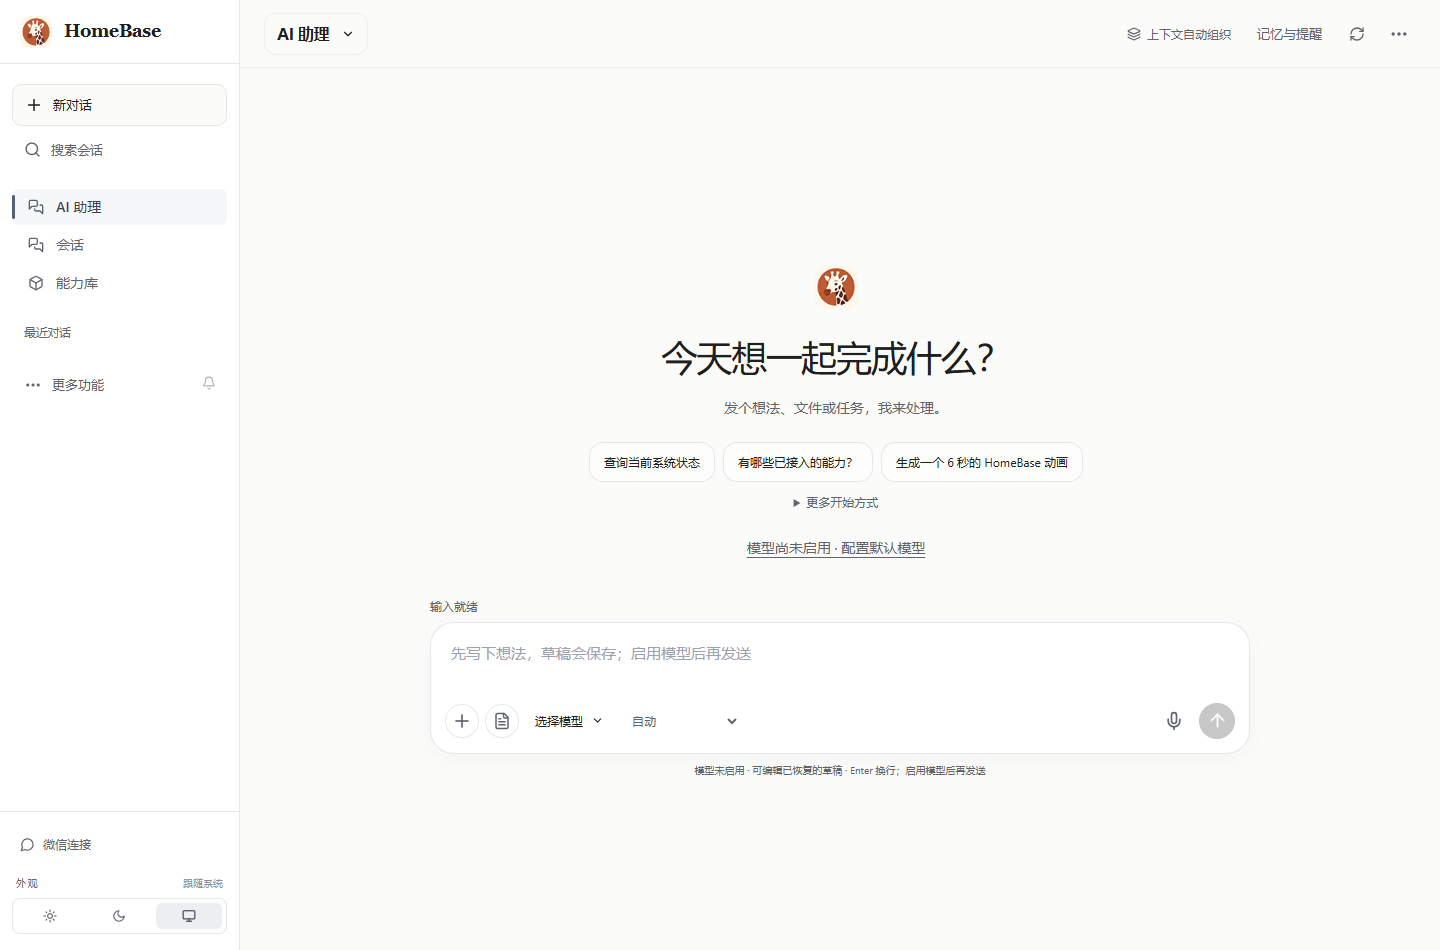
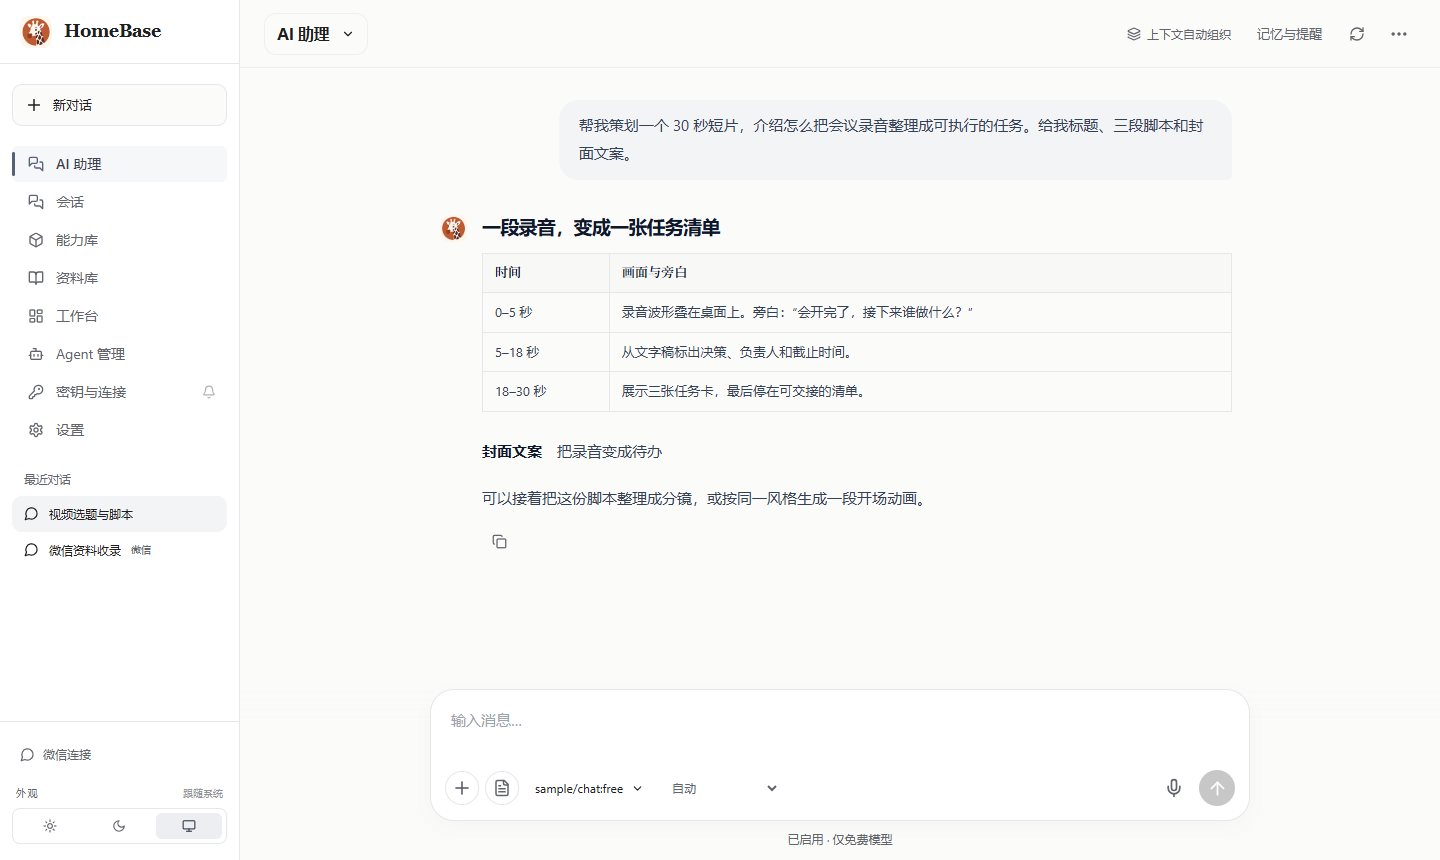
Refresh bilingual HomeBase repository homepage

diff --git a/README.md b/README.md
@@ -1,40 +1,63 @@
-# HomeBase
+<p align="center">
+  <img src="docs/brand/homebase-mark.png" width="104" height="104" alt="HomeBase 标识">
+</p>
 
-**Windows 上的本地 AI 助理和能力工作台。**
+<h1 align="center">HomeBase</h1>
 
-在桌面或微信里用自然语言交办任务，HomeBase 会按用途查找可用的模型、MCP、Skill 或本机能力。任务受理后可以查原进度、恢复中断的流程并取回产物。
+<p align="center"><strong>本地 AI 助理与能力工作台</strong></p>
 
-## 界面预览
+<p align="center">
+  简体中文 · <a href="README.en.md">English</a>
+</p>
 
-![HomeBase AI 助理首页](docs/screenshots/assistant.png)
+<p align="center">
+  <a href="#快速开始">快速开始</a> ·
+  <a href="#功能">功能</a> ·
+  <a href="docs/index.md">文档</a> ·
+  <a href="CONTRIBUTING.md">参与贡献</a>
+</p>
 
-以上为合成数据界面。 [查看能力库截图](docs/screenshots/capabilities.png)
+HomeBase 把聊天、任务和本机工具放进同一个 Windows 工作台。你可以在桌面或微信交办任务，让 Pi 助理选择合适的能力，再查看执行进度、继续处理或取回文件。模型服务、MCP、Skill 和已接入的开源项目集中在「能力库」，按要做的事查找。
 
-## 主要能力
+![HomeBase 桌面助理](docs/screenshots/assistant.png)
 
-| 模块 | 可以做什么 |
+## 功能
+
+| 功能 | 使用方式 |
 | --- | --- |
-| Pi 助理 | 连续对话、上下文摘要、个人记忆、提醒和任务恢复 |
-| 微信接入 | 本人扫码绑定，聊天、交办、查询进度与接收结果 |
-| 能力库 | 按功能查看本机工具、模型服务、MCP、Skill 和已注册的仓库能力 |
-| 会话与工作台 | 查看来自桌面、微信和已接入原生 Agent 的会话与运行状态 |
-| 本机 CLI | 让其他 AI 通过命令契约发现能力、校验输入、查询原任务及结果 |
+| **Pi 助理** | 在一个对话里提问、添加资料、执行任务。助理可使用长期记忆、提醒和上下文摘要。 |
+| **微信连接** | 扫码绑定后，在微信对话中交办任务、查询进度、接收文件。 |
+| **能力库** | 按功能比较模型服务、本机工具、MCP、Skill 和开源项目。选定能力后可带着上下文交给助理。 |
+| **会话与工作台** | 查看桌面、微信及已接入 Agent 的对话，跟踪任务和已上报用量。 |
+| **资料库与密钥** | 浏览项目资料，管理加密保存的密钥及轮换、到期状态。 |
+| **本机 CLI** | 让其他 AI 发现可调用能力、校验参数、查询已有任务与产物。 |
 
-## 从源码运行
+<details>
+<summary>查看能力库</summary>
 
-准备 Windows x64、Node.js 22.19 或更新版本、Rust stable，以及 MSVC C++ Build Tools 和 Windows SDK。在仓库根目录执行以下命令。
+![HomeBase 能力库](docs/screenshots/capabilities.png)
+
+</details>
+
+## 快速开始
+
+准备 Windows x64、Node.js 22.19 或以上、Rust stable、MSVC C++ Build Tools 和 Windows SDK。按[密钥环境说明](docs/agent-keys.md)准备 SOPS 和 age。
 
 ```powershell
+git clone https://github.com/Gdnbit/homebase-public.git
+cd homebase-public
 npm ci
 npm ci --prefix agent-runtime --ignore-scripts
 npm run tauri:dev
 ```
 
-前端开发可用 `npm run dev`。浏览器中的界面预览无法调用 Tauri 原生工具。首次启动后，按需在设置里配置模型、绑定微信或开放本机工作区。完整安装包需要单独准备固定版本的运行时。 [Windows 打包](docs/windows-packaging.md)
+从 **AI 助理 → 模型设置** 启用默认模型。从 **微信连接 → 扫码绑定** 在微信使用同一套助理。可以先在「能力库」查看当前可用的工具和模型。
 
-## AI 和 CLI
+[Windows 打包指南](docs/windows-packaging.md) · [助理使用指南](docs/assistant.md) · [微信绑定指南](docs/wechat-integration.md)
 
-在桌面 **设置 → 高级集成 → AI 接管** 复制启动提示词，或运行以下命令。
+## 让其他 AI 使用 HomeBase
+
+在 **设置 → 高级集成 → AI 接管** 复制启动提示词。外部 AI 可以通过 CLI 查看完整参数和返回结构，再按原任务编号查询进度与结果。
 
 ```powershell
 .\hb.cmd bootstrap
@@ -42,25 +65,13 @@ npm run tauri:dev
 .\hb.cmd describe capability_index_query
 ```
 
-在线任务由正在运行的桌面程序处理。启动提示词和接口文档包含命令、参数、授权及任务回执说明。 [AI 操作入口](control/START.md) · [CLI 手册](docs/ai-control.md)
+[AI 操作入口](control/START.md) · [CLI 手册](docs/ai-control.md) · [接口参考](control/reference.md)
 
-## 验证与文档
+## 项目文档
 
-```powershell
-npm run build
-npm run lint
-npm run test:control:contract
-npm test --prefix agent-runtime
-cargo check --locked --manifest-path src-tauri/Cargo.toml --all-targets
-```
+- [能力库与接入方式](docs/capability-library.md)
+- [架构与运行时](docs/architecture.md)
+- [测试与贡献](CONTRIBUTING.md)
+- [文档索引](docs/index.md)
 
-- [完整文档索引](docs/index.md) · [项目路线图](docs/ROADMAP.md)
-- [助理与微信](docs/assistant.md) · [微信绑定与使用](docs/wechat-integration.md)
-- [能力库](docs/capability-library.md) · [能力发现接口](docs/capability-discovery.md)
-- [架构](docs/architecture.md) · [维护迭代](docs/maintenance-goal.md)
-
-公开仓库包含源码、合成测试和接口文档。模型权重、凭据、个人配置、会话、真实产物和可执行分发包由使用者另行准备。贡献前请启用提交和推送隐私检查。 [提交流程](CONTRIBUTING.md)
-
-## 许可证
-
-HomeBase 项目自身源码和文档使用 MIT 许可证。第三方组件及其原有材料遵循各自的许可。 [MIT 许可证](LICENSE) · [第三方说明](packaging/windows/THIRD-PARTY-NOTICES.md)
+HomeBase 使用 [MIT 许可证](LICENSE)。各依赖遵循其[第三方许可](packaging/windows/THIRD-PARTY-NOTICES.md)。

diff --git a/README.en.md b/README.en.md
@@ -1,0 +1,77 @@
+<p align="center">
+  <img src="docs/brand/homebase-mark.png" width="104" height="104" alt="HomeBase mark">
+</p>
+
+<h1 align="center">HomeBase</h1>
+
+<p align="center"><strong>A local-first AI assistant and tool workspace</strong></p>
+
+<p align="center">
+  <a href="README.md">简体中文</a> · English
+</p>
+
+<p align="center">
+  <a href="#quick-start">Quick start</a> ·
+  <a href="#features">Features</a> ·
+  <a href="docs/index.md">Documentation</a> ·
+  <a href="CONTRIBUTING.md">Contributing</a>
+</p>
+
+HomeBase brings chats, tasks, and local tools into one Windows workspace. Ask from the desktop or WeChat, let the Pi assistant choose a tool, and check progress or retrieve the result when it is ready. The capability library groups model services, MCP servers, skills, and integrated open-source projects by what they can do.
+
+![HomeBase desktop assistant](docs/screenshots/assistant.png)
+
+## Features
+
+| Feature | What you can do |
+| --- | --- |
+| **Pi assistant** | Ask questions, attach materials, and run tasks in a single conversation with memory, reminders, and context summaries. |
+| **WeChat connection** | Pair by QR code, then assign tasks, check progress, and receive files from your chat. |
+| **Capability library** | Explore model services, local tools, MCP servers, skills, and open-source projects by function. Hand a selected capability to the assistant with its context. |
+| **Conversations and workbench** | Review desktop, WeChat, and connected agent conversations alongside task activity and reported usage. |
+| **Knowledge and credentials** | Browse project materials and manage encrypted credentials, rotation, and expiration. |
+| **Local CLI** | Let another AI discover tools, validate inputs, and recover original task progress and artifacts. |
+
+<details>
+<summary>View the capability library</summary>
+
+![HomeBase capability library](docs/screenshots/capabilities.png)
+
+</details>
+
+## Quick start
+
+Set up Windows x64, Node.js 22.19 or later, stable Rust, MSVC C++ Build Tools, and the Windows SDK. Follow the [credential setup](docs/agent-keys.md) for SOPS and age.
+
+```powershell
+git clone https://github.com/Gdnbit/homebase-public.git
+cd homebase-public
+npm ci
+npm ci --prefix agent-runtime --ignore-scripts
+npm run tauri:dev
+```
+
+Enable a default model from the assistant's model settings. Open **WeChat Connection** and scan the QR code to use the same assistant from WeChat. The capability library shows tools and models available to your workspace.
+
+[Windows packaging](docs/windows-packaging.md) · [Assistant guide](docs/assistant.md) · [WeChat guide](docs/wechat-integration.md)
+
+## Connect another AI
+
+From **Settings → Advanced Integration → AI Handoff**, copy the startup prompt. An external AI can use the CLI to inspect schemas and retrieve progress or results by the original task ID.
+
+```powershell
+.\hb.cmd bootstrap
+.\hb.cmd commands
+.\hb.cmd describe capability_index_query
+```
+
+[Agent entry point](control/START.md) · [CLI guide](docs/ai-control.md) · [Command reference](control/reference.md)
+
+## Project documentation
+
+- [Capability library and integrations](docs/capability-library.md)
+- [Architecture and runtime](docs/architecture.md)
+- [Testing and contributing](CONTRIBUTING.md)
+- [Documentation index](docs/index.md)
+
+HomeBase is available under the [MIT license](LICENSE). Dependencies retain their [third-party licenses](packaging/windows/THIRD-PARTY-NOTICES.md).
